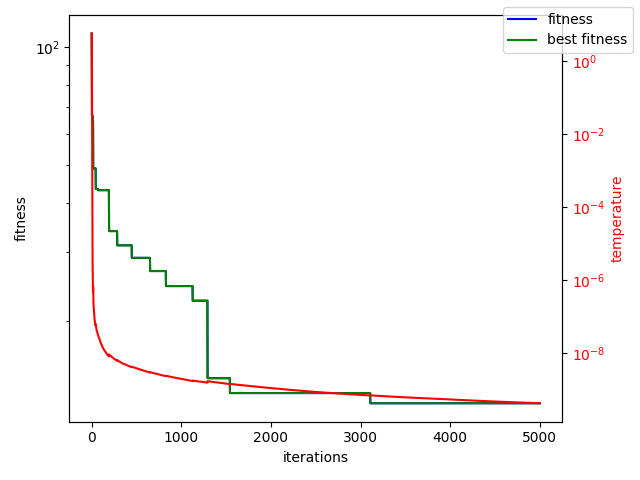
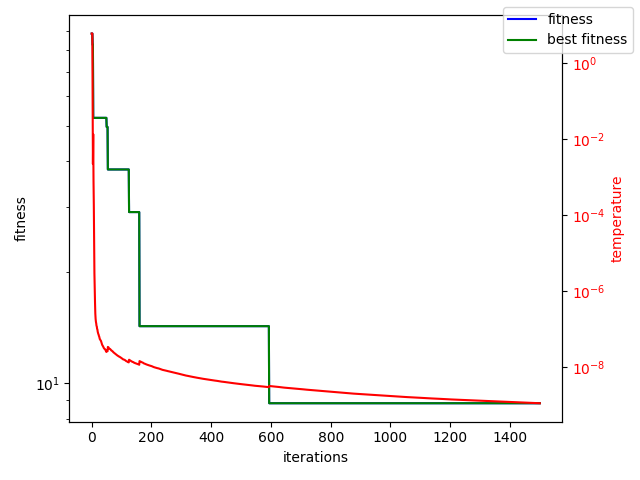
clean up rastrigin folder and set parameters for ease of comparison

diff --git a/rastrigin.py b/rastrigin.py
@@ -44,6 +44,10 @@ def prints(s):
 
 Ns = [1, 5, 10]
 for n in Ns:
+    num_generations = 10
+    population_size = 30
+    num_runs = 10   # because algorithms are nondeterministic, we did some runs and took average
+
     print("="*80)
     print(f"RASTRIGIN N={n}")
     rastrigin = Rastrigin(n)
@@ -71,7 +75,6 @@ for n in Ns:
     Thermodynamic Simulated Annealing
     """
     print_alot = True
-    num_runs = 5
     print("-"*80)
     print("Thermodynamic Simulated Annealing")
     high_probability_ps = [0.8]#[0.1, 0.2, 0.3, 0.4, 0.5, 0.6, 0.7, 0.8, 0.9]
@@ -81,14 +84,12 @@ for n in Ns:
         results_prob = {}
         for k_A in k_A_ps:
             mfit = 0
+            prints("-"*60)
+            prints(f"high_prob: {high_prob} k_A: {k_A}")
             for _ in range(num_runs):
-                prints("-"*60)
-                prints(f"high_prob: {high_prob} k_A: {k_A}")
                 init_temp = thermodynamic_init_temp(100, high_prob, rastrigin.fitness, rastrigin.random_feasible_point)
-                
-                prints(f"Thermodynamic SA init_temp = {init_temp} k_A = {k_A}")
                 sols, fits, temps = thermodynamic_simulated_annealing(init, init_temp, k_A, rastrigin.mutate, metropolis_hastings_algorithm_probability, 
-                    rastrigin.fitness, max_iterations=1000*n)
+                    rastrigin.fitness, max_iterations=population_size*num_generations*n)
                 mfit += min(fits)
             if print_alot:
                 print_simulated_annealing(sols, fits, temps, f"{rastrigin_folder}TSA_n={n}_highprob={high_prob}_kA={k_A}.png")

diff --git a/algorithms/coral_visualize.py b/algorithms/coral_visualize.py
@@ -25,7 +25,7 @@ def visualize_coral_reef_optimization(reef_evolutions, corals, empty_coral=0, fi
     ax1.set_aspect('equal')
 
     health_evolution = [np.array([[corals[coral_name].health for coral_name in coral_rows] for coral_rows in reef]) for reef in reef_evolutions]
-    print("Best Coral Health: ", np.array(health_evolution).max())
+    print("Best Coral Health: ", np.nanmax(np.array(health_evolution)))
     masked_array = np.ma.array (health_evolution[0], mask=np.isnan(health_evolution[0]))
     cmap = copy.copy(matplotlib.cm.get_cmap("jet"))
     cmap.set_bad('white',1.)
